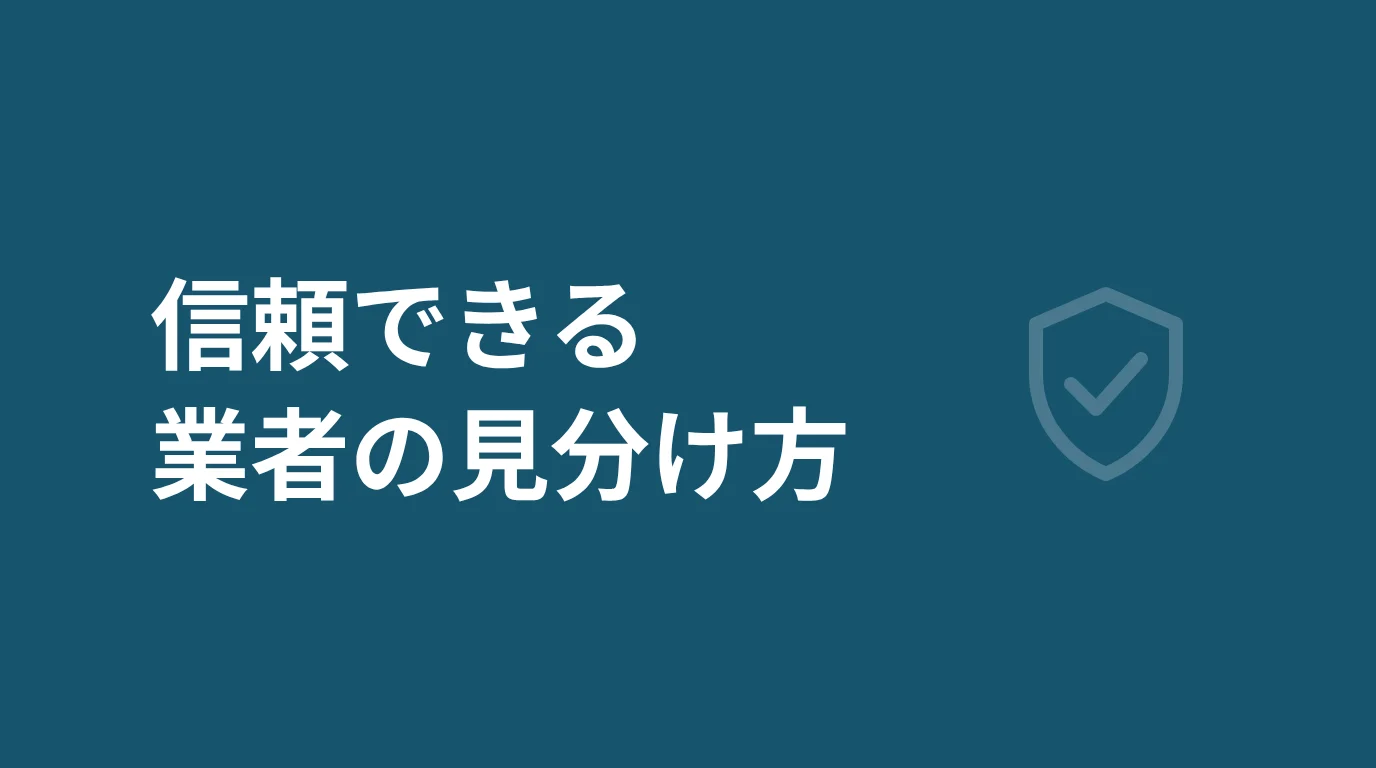
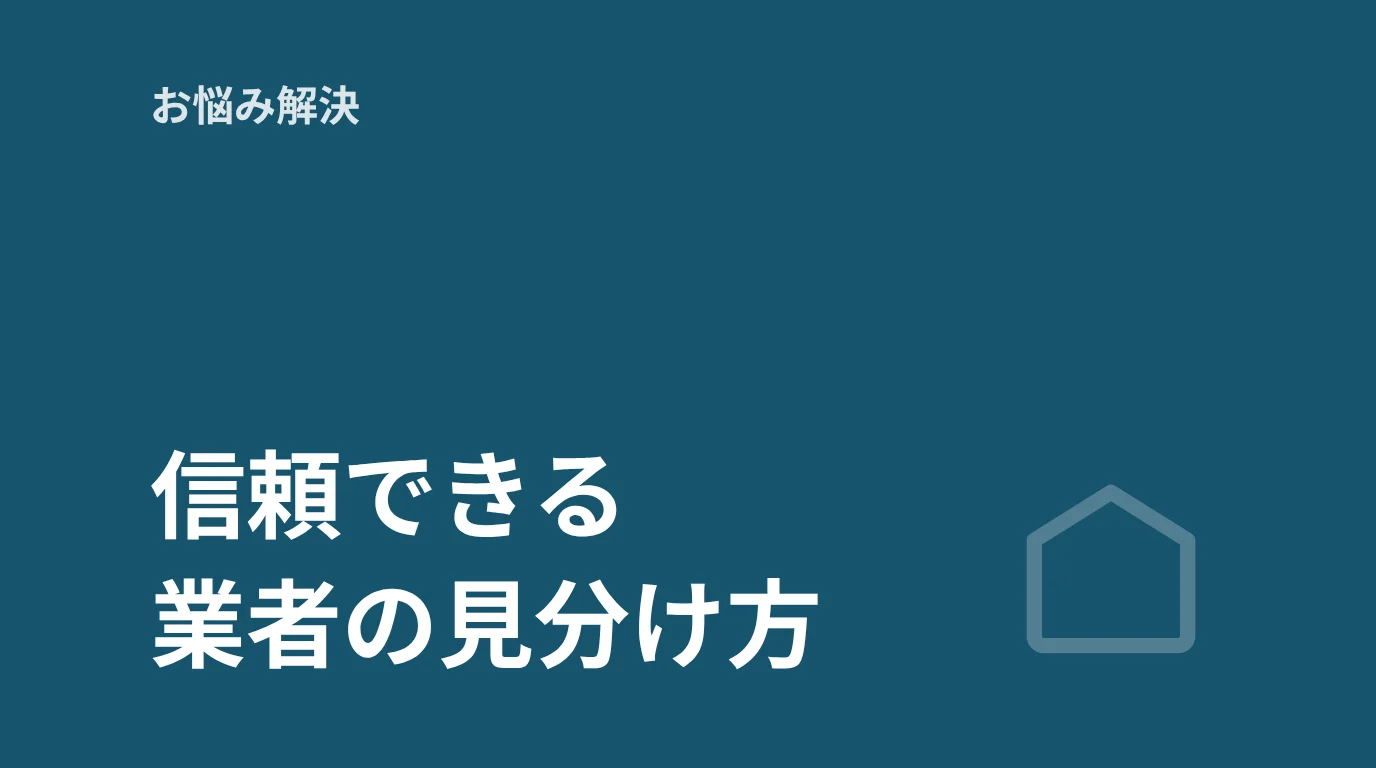
アイキャッチを初期ラフ案Bどおりに（画像内にカテゴリ名、カード上のラベルを削除）
Claude-Session: https://claude.ai/code/session_01LRyDkTUJJefFDPtA3w7j2w

diff --git a/scripts/make-thumbs.py b/scripts/make-thumbs.py
@@ -6,8 +6,8 @@ import json, io
 from playwright.sync_api import sync_playwright
 from PIL import Image
 
-COLORS = {'お悩み解決':'#17546E','料金相場':'#E35F00','生前整理':'#3E6B48','実家じまい':'#2F6F8F',
-          '相続':'#6B4E8A','賃貸':'#8A5A2B','不用品回収':'#B4532A','生活':'#4A5A68'}
+COLORS = {'お悩み解決':'#17546E','料金相場':'#8A5A2B','生前整理':'#6B4E8A','実家じまい':'#17546E',
+          '相続':'#17546E','賃貸':'#3E6B48','不用品回収':'#E35F00','生活':'#2F6F8F','手続き':'#6B4E8A'}
 ICONS = {
  'お悩み解決':'<path d="M12 3l7 3v5c0 5-3.5 8.5-7 10-3.5-1.5-7-5-7-10V6z"/><path d="M8.5 12l2.5 2.5 4.5-5"/>',
  '料金相場':'<circle cx="12" cy="12" r="8.5"/><path d="M9 8l3 4 3-4M12 12v6M9 13.5h6M9 16h6"/>',
@@ -19,9 +19,10 @@ ICONS = {
  '生活':'<rect x="5" y="10" width="14" height="10" rx="2"/><path d="M8 10V7a4 4 0 0 1 8 0v3"/>',
 }
 HTML = """<html><body style="margin:0"><div style="width:1376px;height:768px;background:{c};position:relative;
-font-family:'Noto Sans CJK JP','Noto Sans JP',sans-serif;color:#fff;box-sizing:border-box;padding:80px 96px">
-<div style="position:absolute;left:150px;top:50%;transform:translateY(-50%);font-size:100px;font-weight:700;line-height:1.3">{l1}<br>{l2}</div>
-<svg style="position:absolute;right:150px;top:50%;transform:translateY(-50%);opacity:.22" width="240" height="240" viewBox="0 0 24 24" fill="none" stroke="#fff" stroke-width="1.4" stroke-linecap="round" stroke-linejoin="round">{ic}</svg>
+font-family:'Noto Sans CJK JP','Noto Sans JP',sans-serif;color:#fff;box-sizing:border-box">
+<div style="position:absolute;left:150px;top:72px;font-size:42px;font-weight:700;opacity:.85">{cat}</div>
+<div style="position:absolute;left:150px;bottom:84px;font-size:96px;font-weight:700;line-height:1.35">{l1}<br>{l2}</div>
+<svg style="position:absolute;right:150px;bottom:84px;opacity:.25" width="230" height="230" viewBox="0 0 24 24" fill="none" stroke="#fff" stroke-width="1.6" stroke-linejoin="round"><path d="M4 9l8-5 8 5v10a1 1 0 0 1-1 1H5a1 1 0 0 1-1-1z"/></svg>
 </div></body></html>"""
 
 pages = json.load(open('src/data/pages.json'))
@@ -29,7 +30,7 @@ with sync_playwright() as p:
     b = p.chromium.launch(); pg = b.new_page(viewport={'width':1376,'height':768})
     for x in pages:
         if x.get('type') != 'article' or not x.get('thumb'): continue
-        cat = x['catTag'].split('／')[0]
+        cat = x.get('thumbCat') or x['catTag'].split('／')[0]
         pg.set_content(HTML.format(c=COLORS.get(cat,'#17546E'), cat=cat, l1=x['thumb'][0], l2=x['thumb'][1], ic=ICONS.get(cat,ICONS['実家じまい'])))
         png = pg.screenshot()
         Image.open(io.BytesIO(png)).convert('RGB').save(f"public/images/articles/{x['slug']}.webp", 'WEBP', quality=86)
